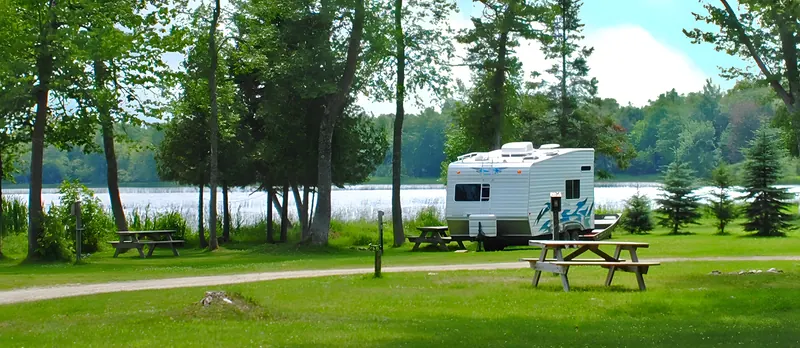
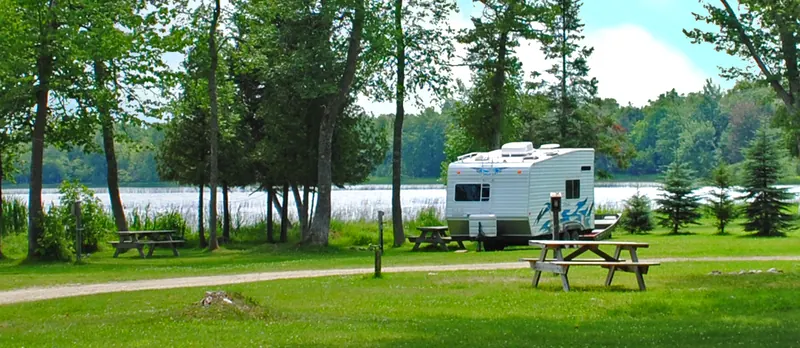
Previews: 143 ativos

diff --git a/shermans-resort-curtis-mi/index.html b/shermans-resort-curtis-mi/index.html
@@ -10,7 +10,7 @@
 <link rel="icon" href="img/favicon.svg" type="image/svg+xml">
 <link rel="preload" as="font" type="font/woff2" href="fonts/rokkitt.woff2" crossorigin>
 <link rel="preload" as="font" type="font/woff2" href="fonts/hanken.woff2" crossorigin>
-<link rel="preload" as="image" href="img/lake-m-800.webp" imagesrcset="img/lake-m-600.webp 600w, img/lake-m-800.webp 800w" imagesizes="(max-width: 860px) calc(100vw - 2rem), 1px" media="(max-width: 860px)" fetchpriority="high">
+<link rel="preload" as="image" href="img/lake-m-800.webp" imagesrcset="img/lake-m-600.webp 600w, img/lake-m-800.webp 800w, img/lake-m-1000.webp 1000w" imagesizes="(max-width: 860px) calc(100vw - 2rem), 1px" media="(max-width: 860px)" fetchpriority="high">
 <link rel="preload" as="image" href="img/lake-1400.webp" imagesrcset="img/lake-1000.webp 1000w, img/lake-1400.webp 1400w" imagesizes="min(calc(100vw - 6rem), 75rem)" media="(min-width: 861px)" fetchpriority="high">
 <style>
 @font-face{font-family:"Rokkitt";src:url(fonts/rokkitt.woff2) format("woff2");font-weight:100 900;font-display:swap}
@@ -46,6 +46,8 @@ p{max-width:38rem}
 .btn:hover{background:#ffb846}
 .btn.line{background:transparent;color:var(--bay);box-shadow:inset 0 0 0 2px var(--bay)}
 .btn.line:hover{background:var(--bay);color:#fff}
+.cta{display:flex;flex-wrap:wrap;gap:.75rem;align-items:stretch}
+.cta .btn{white-space:nowrap}
 .nav .btn{min-height:2.6rem;padding:.5rem 1rem;font-size:.95rem}
 .btn svg{width:1.1em;height:1.1em;flex:none}
 
@@ -54,7 +56,7 @@ section{padding:clamp(3rem,7vw,5.5rem) 0}
 .lede{font-size:1.15rem;color:var(--muted)}
 
 /* Page heads on the inner pages */
-.head{padding:clamp(2rem,5vw,3.5rem) 0 clamp(1.5rem,3vw,2rem)}
+.head{padding-top:clamp(2rem,5vw,3.5rem);padding-bottom:clamp(1.5rem,3vw,2rem)}
 .head h1{font-size:clamp(2.5rem,6vw,4.4rem);color:var(--bay)}
 .head .lede{margin-top:1rem}
 .wide{border-radius:.5rem;width:100%}
@@ -94,7 +96,6 @@ section{padding:clamp(3rem,7vw,5.5rem) 0}
 .hero .text{display:grid;grid-template-columns:1.75fr 1fr;gap:1.5rem 3.5rem;align-items:end}
 .hero h1{font-size:clamp(2.3rem,5vw,4.3rem);color:var(--bay);font-weight:700}
 .hero .lede{margin-bottom:1.2rem}
-.cta{display:flex;flex-wrap:wrap;gap:.75rem}
 .hero .note{margin-top:.9rem;font-size:.92rem;color:var(--muted)}
 .hero figure{margin-top:clamp(1.5rem,3vw,2.2rem)}
 .hero figure img{width:100%;border-radius:.5rem;aspect-ratio:1400/610;object-fit:cover}
@@ -155,7 +156,10 @@ section{padding:clamp(3rem,7vw,5.5rem) 0}
 .season .after a{color:#fff}
 @media (max-width:860px){
   .tiers{grid-template-columns:1fr}
-  .months span{font-size:.72rem;padding-left:.2rem}
+  .months span{font-size:.86rem;padding-left:.2rem}
+  .seg.spring{overflow:visible}
+  .seg.spring .long{display:inline;position:absolute;left:0;top:100%;margin-top:.3rem;font-size:.78rem;color:#fff}
+  .lane.cab{margin-bottom:2.2rem}
   .lane{height:2.6rem}
   .lane .seg{font-size:.78rem;padding:0 .45rem}
   .seg .long{display:none}
@@ -217,7 +221,7 @@ section{padding:clamp(3rem,7vw,5.5rem) 0}
     </div>
     <figure>
       <picture>
-        <source media="(max-width: 860px)" srcset="img/lake-m-600.webp 600w, img/lake-m-800.webp 800w" sizes="calc(100vw - 2rem)" width="800" height="625">
+        <source media="(max-width: 860px)" srcset="img/lake-m-600.webp 600w, img/lake-m-800.webp 800w, img/lake-m-1000.webp 1000w" sizes="calc(100vw - 2rem)" width="800" height="625">
         <img src="img/lake-1400.webp" srcset="img/lake-1000.webp 1000w, img/lake-1400.webp 1400w" sizes="min(calc(100vw - 6rem), 75rem)" width="1400" height="610" alt="A flagpole, overturned rowboats and a green lawn running down to South Manistique Lake" fetchpriority="high">
       </picture>
     </figure>
@@ -233,8 +237,8 @@ section{padding:clamp(3rem,7vw,5.5rem) 0}
     <div class="cal" id="cal" aria-hidden="true">
       <div class="months"><span>May</span><span>June</span><span>July</span><span>Aug</span><span>Sept</span><span>Oct</span><span>Nov</span></div>
       <p class="lanelabel">Cabins and chalets</p>
-      <div class="lane">
-        <div class="seg sf" style="left:6.54%;width:calc(11.21% - 3px)"><span class="long">Spring</span></div>
+      <div class="lane cab">
+        <div class="seg sf spring" style="left:6.54%;width:calc(11.21% - 3px)"><span class="long">Spring</span></div>
         <div class="seg su" style="left:17.76%;width:calc(40.19% - 3px)"><span class="long">Summer, by the week</span><span class="short">Summer</span></div>
         <div class="seg sf fade" style="left:57.94%;width:42.06%"><span class="long">Fall, into deer season</span><span class="short">Fall</span></div>
       </div>
@@ -332,7 +336,7 @@ section{padding:clamp(3rem,7vw,5.5rem) 0}
 <script>
 (function(){var b=document.getElementById('callbar'),t=document.querySelector('[data-callbar]');if(!b||!t||!('IntersectionObserver' in window))return;new IntersectionObserver(function(e){b.classList.toggle('on',!e[0].isIntersecting&&e[0].boundingClientRect.top<0)}).observe(t)})();
 
-(function(){var c=document.getElementById('cal'),t=document.getElementById('today');if(!c||!t)return;var n=new Date(),s=new Date(n.getFullYear(),4,1),d=Math.floor((n-s)/864e5);if(d<0||d>213)return;var p=d/214*100;t.style.setProperty('--today',p+'%');t.firstChild.textContent='Today, '+n.toLocaleDateString('en-US',{month:'short',day:'numeric'});if(p>80)t.classList.add('flip');c.classList.add('has-today')})();
+(function(){var c=document.getElementById('cal'),t=document.getElementById('today');if(!c||!t)return;var n=new Date(),s=new Date(n.getFullYear(),4,1),d=Math.floor((n-s)/864e5);if(d<0||d>213)return;var p=d/214*100;t.style.setProperty('--today',p+'%');t.firstChild.textContent=d>=199?'Now: deer season. Call for rates.':'Today, '+n.toLocaleDateString('en-US',{month:'short',day:'numeric'});if(p>80)t.classList.add('flip');c.classList.add('has-today')})();
 </script>
 </body>
 </html>

diff --git a/shermans-resort-curtis-mi/campground.html b/shermans-resort-curtis-mi/campground.html
@@ -10,7 +10,7 @@
 <link rel="icon" href="img/favicon.svg" type="image/svg+xml">
 <link rel="preload" as="font" type="font/woff2" href="fonts/rokkitt.woff2" crossorigin>
 <link rel="preload" as="font" type="font/woff2" href="fonts/hanken.woff2" crossorigin>
-<link rel="preload" as="image" href="img/camp-800.webp" imagesrcset="img/camp-800.webp 800w, img/camp-1400.webp 1400w" imagesizes="min(calc(100vw - 2rem), 75rem)" fetchpriority="high">
+<link rel="preload" as="image" href="img/camp-800.webp" imagesrcset="img/camp-800.webp 800w, img/camp-1256.webp 1256w" imagesizes="min(calc(100vw - 2rem), 75rem)" fetchpriority="high">
 <style>
 @font-face{font-family:"Rokkitt";src:url(fonts/rokkitt.woff2) format("woff2");font-weight:100 900;font-display:swap}
 @font-face{font-family:"Hanken";src:url(fonts/hanken.woff2) format("woff2");font-weight:100 900;font-display:swap}
@@ -45,6 +45,8 @@ p{max-width:38rem}
 .btn:hover{background:#ffb846}
 .btn.line{background:transparent;color:var(--bay);box-shadow:inset 0 0 0 2px var(--bay)}
 .btn.line:hover{background:var(--bay);color:#fff}
+.cta{display:flex;flex-wrap:wrap;gap:.75rem;align-items:stretch}
+.cta .btn{white-space:nowrap}
 .nav .btn{min-height:2.6rem;padding:.5rem 1rem;font-size:.95rem}
 .btn svg{width:1.1em;height:1.1em;flex:none}
 
@@ -53,7 +55,7 @@ section{padding:clamp(3rem,7vw,5.5rem) 0}
 .lede{font-size:1.15rem;color:var(--muted)}
 
 /* Page heads on the inner pages */
-.head{padding:clamp(2rem,5vw,3.5rem) 0 clamp(1.5rem,3vw,2rem)}
+.head{padding-top:clamp(2rem,5vw,3.5rem);padding-bottom:clamp(1.5rem,3vw,2rem)}
 .head h1{font-size:clamp(2.5rem,6vw,4.4rem);color:var(--bay)}
 .head .lede{margin-top:1rem}
 .wide{border-radius:.5rem;width:100%}
@@ -130,7 +132,7 @@ section{padding:clamp(3rem,7vw,5.5rem) 0}
   <p class="cta" style="margin-top:1.3rem" data-callbar><a class="btn" href="tel:+19065866761"><svg viewBox="0 0 24 24" aria-hidden="true"><path fill="currentColor" d="M6.6 10.8a15.1 15.1 0 0 0 6.6 6.6l2.2-2.2a1 1 0 0 1 1-.25 11.4 11.4 0 0 0 3.6.57 1 1 0 0 1 1 1V20a1 1 0 0 1-1 1A17 17 0 0 1 3 4a1 1 0 0 1 1-1h3.5a1 1 0 0 1 1 1c0 1.25.2 2.45.57 3.57a1 1 0 0 1-.25 1z"/></svg><span>Call (906) 586-6761</span></a></p>
 </div>
 <div class="wrap">
-  <img class="wide" src="img/camp-1400.webp" srcset="img/camp-800.webp 800w, img/camp-1400.webp 1400w" sizes="min(calc(100vw - 2rem), 75rem)" width="1400" height="610" alt="A travel trailer and picnic tables on a grassy campsite, the lake behind the trees" fetchpriority="high">
+  <img class="wide" src="img/camp-1256.webp" srcset="img/camp-800.webp 800w, img/camp-1256.webp 1256w" sizes="min(calc(100vw - 2rem), 75rem)" width="1256" height="547" alt="A travel trailer and picnic tables on a grassy campsite, the lake behind the trees" fetchpriority="high">
 </div>
 <section>
   <div class="wrap camp">
@@ -145,7 +147,7 @@ section{padding:clamp(3rem,7vw,5.5rem) 0}
       <ul><li>Volleyball nets</li><li>Playground</li><li>Fish house</li><li>Campground dock</li></ul>
       <p style="margin-top:1.6rem">Swim, boat, jet ski, water ski, relax by the lake, cook out, and sit beside a crackling campfire. Cash and checks only.</p>
     </div>
-    <img src="img/camp-path-900.webp" srcset="img/camp-path-600.webp 600w, img/camp-path-900.webp 900w" sizes="(max-width: 860px) calc(100vw - 2rem), 36rem" width="900" height="546" alt="A gravel drive curving past campsites with picnic tables, the lake beyond" loading="lazy">
+    <img src="img/camp-path-900.webp" srcset="img/camp-path-600.webp 600w, img/camp-path-720.webp 720w, img/camp-path-900.webp 900w" sizes="(max-width: 860px) calc(100vw - 2rem), 36rem" width="900" height="546" alt="A gravel drive curving past campsites with picnic tables, the lake beyond" loading="lazy">
   </div>
 </section>
 </main>

diff --git a/shermans-resort-curtis-mi/cabins.html b/shermans-resort-curtis-mi/cabins.html
@@ -45,6 +45,8 @@ p{max-width:38rem}
 .btn:hover{background:#ffb846}
 .btn.line{background:transparent;color:var(--bay);box-shadow:inset 0 0 0 2px var(--bay)}
 .btn.line:hover{background:var(--bay);color:#fff}
+.cta{display:flex;flex-wrap:wrap;gap:.75rem;align-items:stretch}
+.cta .btn{white-space:nowrap}
 .nav .btn{min-height:2.6rem;padding:.5rem 1rem;font-size:.95rem}
 .btn svg{width:1.1em;height:1.1em;flex:none}
 
@@ -53,7 +55,7 @@ section{padding:clamp(3rem,7vw,5.5rem) 0}
 .lede{font-size:1.15rem;color:var(--muted)}
 
 /* Page heads on the inner pages */
-.head{padding:clamp(2rem,5vw,3.5rem) 0 clamp(1.5rem,3vw,2rem)}
+.head{padding-top:clamp(2rem,5vw,3.5rem);padding-bottom:clamp(1.5rem,3vw,2rem)}
 .head h1{font-size:clamp(2.5rem,6vw,4.4rem);color:var(--bay)}
 .head .lede{margin-top:1rem}
 .wide{border-radius:.5rem;width:100%}

diff --git a/shermans-resort-curtis-mi/contact.html b/shermans-resort-curtis-mi/contact.html
@@ -44,6 +44,8 @@ p{max-width:38rem}
 .btn:hover{background:#ffb846}
 .btn.line{background:transparent;color:var(--bay);box-shadow:inset 0 0 0 2px var(--bay)}
 .btn.line:hover{background:var(--bay);color:#fff}
+.cta{display:flex;flex-wrap:wrap;gap:.75rem;align-items:stretch}
+.cta .btn{white-space:nowrap}
 .nav .btn{min-height:2.6rem;padding:.5rem 1rem;font-size:.95rem}
 .btn svg{width:1.1em;height:1.1em;flex:none}
 
@@ -52,7 +54,7 @@ section{padding:clamp(3rem,7vw,5.5rem) 0}
 .lede{font-size:1.15rem;color:var(--muted)}
 
 /* Page heads on the inner pages */
-.head{padding:clamp(2rem,5vw,3.5rem) 0 clamp(1.5rem,3vw,2rem)}
+.head{padding-top:clamp(2rem,5vw,3.5rem);padding-bottom:clamp(1.5rem,3vw,2rem)}
 .head h1{font-size:clamp(2.5rem,6vw,4.4rem);color:var(--bay)}
 .head .lede{margin-top:1rem}
 .wide{border-radius:.5rem;width:100%}

diff --git a/shermans-resort-curtis-mi/lake.html b/shermans-resort-curtis-mi/lake.html
@@ -45,6 +45,8 @@ p{max-width:38rem}
 .btn:hover{background:#ffb846}
 .btn.line{background:transparent;color:var(--bay);box-shadow:inset 0 0 0 2px var(--bay)}
 .btn.line:hover{background:var(--bay);color:#fff}
+.cta{display:flex;flex-wrap:wrap;gap:.75rem;align-items:stretch}
+.cta .btn{white-space:nowrap}
 .nav .btn{min-height:2.6rem;padding:.5rem 1rem;font-size:.95rem}
 .btn svg{width:1.1em;height:1.1em;flex:none}
 
@@ -53,7 +55,7 @@ section{padding:clamp(3rem,7vw,5.5rem) 0}
 .lede{font-size:1.15rem;color:var(--muted)}
 
 /* Page heads on the inner pages */
-.head{padding:clamp(2rem,5vw,3.5rem) 0 clamp(1.5rem,3vw,2rem)}
+.head{padding-top:clamp(2rem,5vw,3.5rem);padding-bottom:clamp(1.5rem,3vw,2rem)}
 .head h1{font-size:clamp(2.5rem,6vw,4.4rem);color:var(--bay)}
 .head .lede{margin-top:1rem}
 .wide{border-radius:.5rem;width:100%}
